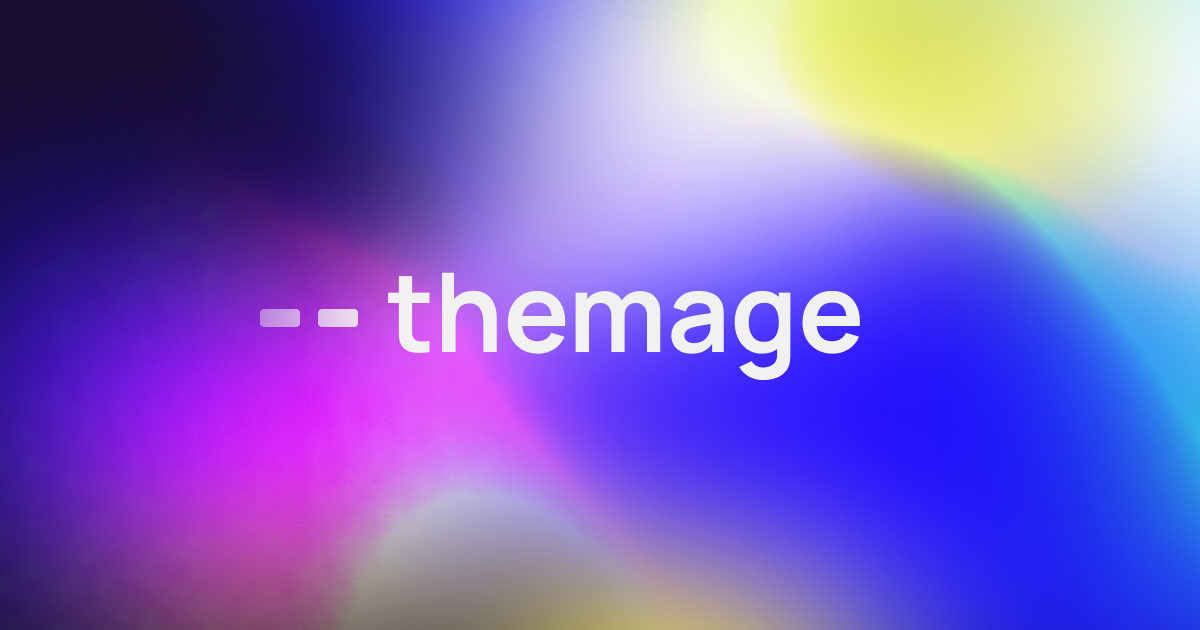
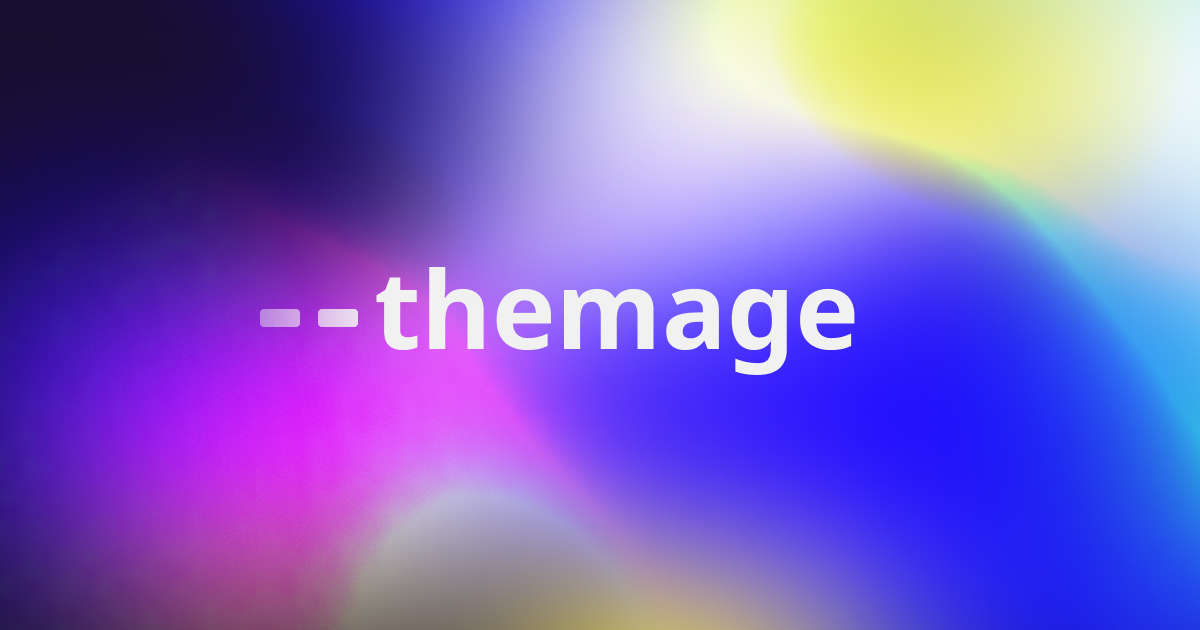
feat: Init app's layouts, style error page

Changed region(s): [[0.3083, 0.4222, 0.74, 0.6032]]

diff --git a/components/AppLogo.vue b/components/AppLogo.vue
@@ -1,0 +1,30 @@
+<template>
+  <svg
+    class="tw-w-auto tw-fill-1"
+    viewBox="0 0 600 140"
+    xmlns="http://www.w3.org/2000/svg"
+  >
+    <path d="M145.2 105.16C139.52 105.16 135.16 103.6 132.12 100.48C129.16 97.36 127.68 92.88 127.68 87.04V58.6H117L120.36 45.88H127.92V33.76L143.28 26.68V45.88H158.88L155.76 58.6H143.52V87.4C143.52 89.24 143.92 90.56 144.72 91.36C145.52 92.16 146.76 92.56 148.44 92.56C150.44 92.56 152.24 92.16 153.84 91.36L157.56 102.76C156.2 103.4 154.32 103.96 151.92 104.44C149.6 104.92 147.36 105.16 145.2 105.16Z" fill="#F1F1F1" />
+    <path d="M209.81 105.28C208.45 102.88 207.45 100.4 206.81 97.84C206.25 95.2 205.97 92.24 205.97 88.96V69.64C205.97 61.56 202.61 57.52 195.89 57.52C191.89 57.52 188.65 59.08 186.17 62.2C183.77 65.32 182.57 69.28 182.57 74.08V104.08H166.73V16H182.57V52.24C184.89 49.92 187.53 48.08 190.49 46.72C193.45 45.36 196.61 44.68 199.97 44.68C214.53 44.68 221.81 53 221.81 69.64V88.6C221.81 93 222.61 96.8 224.21 100L209.81 105.28Z" fill="#F1F1F1" />
+    <path d="M263.655 105.28C254.055 105.28 246.455 102.6 240.855 97.24C235.335 91.88 232.575 84.6 232.575 75.4C232.575 69.4 233.695 64.08 235.935 59.44C238.175 54.8 241.495 51.2 245.895 48.64C250.295 46 255.615 44.68 261.855 44.68C267.935 44.68 273.215 45.96 277.695 48.52C282.175 51 285.575 54.44 287.895 58.84C290.215 63.16 291.375 68 291.375 73.36C291.375 76 290.495 78.04 288.735 79.48C287.055 80.84 284.695 81.52 281.655 81.52H248.295C248.295 84.8 249.695 87.44 252.495 89.44C255.375 91.44 259.095 92.44 263.655 92.44C267.415 92.44 270.575 91.92 273.135 90.88C275.775 89.76 278.095 88.2 280.095 86.2L288.015 94.6C285.375 97.96 281.975 100.6 277.815 102.52C273.655 104.36 268.935 105.28 263.655 105.28ZM275.655 69.16C275.655 65.64 274.335 62.8 271.695 60.64C269.135 58.4 265.855 57.28 261.855 57.28C258.015 57.28 254.775 58.4 252.135 60.64C249.575 62.8 248.295 65.64 248.295 69.16H275.655Z" />
+    <path d="M373.043 105.28C371.683 102.88 370.683 100.4 370.043 97.84C369.483 95.2 369.203 92.24 369.203 88.96V69.4C369.203 65.32 368.523 62.32 367.163 60.4C365.803 58.48 363.763 57.52 361.043 57.52C354.723 57.52 351.563 61.48 351.563 69.4V104.08H335.963V69.28C335.963 65.04 335.323 62.04 334.043 60.28C332.843 58.44 330.883 57.52 328.163 57.52C324.723 57.52 322.203 58.76 320.603 61.24C319.003 63.64 318.203 67.28 318.203 72.16V104.08H302.363V62.2C302.363 59.8 302.163 57.72 301.763 55.96C301.443 54.2 300.763 52.24 299.723 50.08L312.923 44.68C313.643 45.96 314.283 47.48 314.843 49.24C315.483 51 315.843 52.52 315.923 53.8C317.603 50.84 319.843 48.6 322.643 47.08C325.443 45.48 328.443 44.68 331.643 44.68C337.963 44.68 342.643 47.64 345.683 53.56C348.243 50.44 351.003 48.2 353.963 46.84C356.923 45.4 360.443 44.68 364.523 44.68C371.083 44.68 376.123 46.6 379.643 50.44C383.243 54.28 385.043 59.32 385.043 65.56V88.6C385.043 93 385.843 96.8 387.443 100L373.043 105.28Z" />
+    <path d="M421.737 105.28C416.777 105.28 412.337 104.12 408.417 101.8C404.497 99.48 401.417 96.12 399.177 91.72C396.937 87.32 395.817 82.08 395.817 76C395.817 69.52 396.937 63.92 399.177 59.2C401.497 54.48 404.697 50.88 408.777 48.4C412.937 45.92 417.777 44.68 423.297 44.68C429.777 44.68 435.177 47.12 439.497 52V45.88H454.737V87.76C454.737 90.56 454.977 92.88 455.457 94.72C455.937 96.56 456.697 98.4 457.737 100.24L444.897 105.28C442.497 102.64 441.137 99.64 440.817 96.28H440.577C438.337 99.16 435.577 101.4 432.297 103C429.097 104.52 425.577 105.28 421.737 105.28ZM424.977 92.68C429.617 92.68 433.137 91.2 435.537 88.24C437.937 85.2 439.137 81.16 439.137 76.12V73.96C439.137 69.32 437.937 65.4 435.537 62.2C433.217 58.92 429.857 57.28 425.457 57.28C420.977 57.28 417.537 58.88 415.137 62.08C412.817 65.28 411.657 69.92 411.657 76C411.657 81.44 412.777 85.6 415.017 88.48C417.337 91.28 420.657 92.68 424.977 92.68Z" />
+    <path d="M493.49 130.24C486.29 130.24 479.25 128.48 472.37 124.96L477.05 113.56C481.93 116.12 487.41 117.4 493.49 117.4C499.49 117.4 503.69 115.92 506.09 112.96C508.49 110 509.69 105.8 509.69 100.36V97.12C507.69 99.28 505.29 101 502.49 102.28C499.69 103.48 496.61 104.08 493.25 104.08C485.09 104.08 478.53 101.52 473.57 96.4C468.61 91.2 466.13 83.84 466.13 74.32C466.13 68 467.25 62.6 469.49 58.12C471.73 53.64 474.81 50.24 478.73 47.92C482.65 45.6 487.17 44.44 492.29 44.44C499.97 44.44 506.41 47.44 511.61 53.44C512.01 49.92 513.37 46.88 515.69 44.32L528.53 49.36C527.49 51.2 526.73 53.04 526.25 54.88C525.77 56.72 525.53 59.08 525.53 61.96V98.92C525.53 109.16 522.77 116.92 517.25 122.2C511.81 127.56 503.89 130.24 493.49 130.24ZM496.01 91.48C500.49 91.48 503.93 89.88 506.33 86.68C508.73 83.4 509.93 79.44 509.93 74.8V73.6C509.93 68.56 508.69 64.56 506.21 61.6C503.81 58.56 500.25 57.04 495.53 57.04C491.13 57.04 487.77 58.52 485.45 61.48C483.13 64.36 481.97 68.64 481.97 74.32C481.97 80.24 483.13 84.6 485.45 87.4C487.85 90.12 491.37 91.48 496.01 91.48Z" />
+    <path d="M567.991 105.28C558.391 105.28 550.791 102.6 545.191 97.24C539.671 91.88 536.911 84.6 536.911 75.4C536.911 69.4 538.031 64.08 540.271 59.44C542.511 54.8 545.831 51.2 550.231 48.64C554.631 46 559.951 44.68 566.191 44.68C572.271 44.68 577.551 45.96 582.031 48.52C586.511 51 589.911 54.44 592.231 58.84C594.551 63.16 595.711 68 595.711 73.36C595.711 76 594.831 78.04 593.071 79.48C591.391 80.84 589.031 81.52 585.991 81.52H552.631C552.631 84.8 554.031 87.44 556.831 89.44C559.711 91.44 563.431 92.44 567.991 92.44C571.751 92.44 574.911 91.92 577.471 90.88C580.111 89.76 582.431 88.2 584.431 86.2L592.351 94.6C589.711 97.96 586.311 100.6 582.151 102.52C577.991 104.36 573.271 105.28 567.991 105.28ZM579.991 69.16C579.991 65.64 578.671 62.8 576.031 60.64C573.471 58.4 570.191 57.28 566.191 57.28C562.351 57.28 559.111 58.4 556.471 60.64C553.911 62.8 552.631 65.64 552.631 69.16H579.991Z" />
+    <rect
+      opacity="0.7"
+      y="64"
+      width="40"
+      height="18"
+      rx="4"
+    />
+    <rect
+      opacity="0.9"
+      x="58"
+      y="64"
+      width="40"
+      height="18"
+      rx="4"
+    />
+  </svg>
+</template>

diff --git a/components/AppFooter.vue b/components/AppFooter.vue
@@ -1,0 +1,32 @@
+<template>
+  <footer class="tw-opacity-muted tw-flex tw-flex-col xs:tw-flex-row tw-gap-2 tw-items-center">
+    <nav class="tw-inline-flex tw-gap-2">
+      <a
+        class="tw-text-lg tw-inline-flex"
+        :href="`https://twitter.com/${APP_TWITTER_HANDLE}`"
+        target="_blank"
+        rel="noreferrer noopener"
+      >
+        <icon name="twitter" />
+      </a>
+      <a
+        class="tw-text-lg tw-inline-flex"
+        :href="`https://github.com/${APP_GITHUB_USERNAME}`"
+        target="_blank"
+        rel="noreferrer noopener"
+      >
+        <icon name="github" />
+      </a>
+    </nav>
+    <span class="tw-text-3 tw-text-xs tw-inline-block">
+      © {{ yearsFrom }}. Made by
+      <a href="https://github.com/pyncz" target="_blank" rel="noreferrer noopener">
+        pyncz
+      </a>
+    </span>
+  </footer>
+</template>
+
+<script lang="ts" setup>
+const yearsFrom = getYearsFrom(2023)
+</script>

diff --git a/error.vue b/error.vue
@@ -1,0 +1,38 @@
+<template>
+  <app-layout>
+    <message-layout>
+      <h1>
+        {{ title }}
+      </h1>
+      <div class="tw-space-y-1">
+        <p class="tw-text-2">
+          {{ message }}
+        </p>
+        <div>
+          <a role="button" @click="clearError({ redirect: '/' })">
+            {{ $t('goHome') }}
+          </a>
+        </div>
+      </div>
+    </message-layout>
+  </app-layout>
+</template>
+
+<script setup lang="ts">
+const props = defineProps({
+  error: Object,
+})
+
+const { t } = useI18n()
+const error = toRef(props, 'error')
+
+const title = computed(() => error.value?.statusCode ?? t('errors.default'))
+const message = computed(() => error.value?.statusCode === 404
+  ? t('errors.notFound')
+  : t('errors.unexpected'),
+)
+
+useHead({
+  title: `var(--themage-error${error?.value?.statusCode ? `-${error.value.statusCode}` : ''})`,
+})
+</script>

diff --git a/utils/getYearsFrom.ts b/utils/getYearsFrom.ts
@@ -1,0 +1,14 @@
+/**
+ * Makes string like `2022-2023`, from provided year till the current one
+ * or just year if they are the same.
+ *
+ * @param start Year to start from (current year as default)
+ *
+ * @returns Years string
+ */
+export const getYearsFrom = (startYear?: number): string => {
+  const currentYear = new Date().getFullYear()
+  return startYear
+    ? `${startYear}${currentYear > startYear ? `-${currentYear}` : ''}`
+    : currentYear.toString()
+}

diff --git a/components/_layouts/MessageLayout.vue b/components/_layouts/MessageLayout.vue
@@ -1,0 +1,9 @@
+<template>
+  <app-header />
+  <main class="tw-container tw-py-8 tw-flex-1 tw-text-center tw-flex-center">
+    <div class="tw-max-w-sm tw-pb-8">
+      <slot />
+    </div>
+  </main>
+  <app-footer />
+</template>

diff --git a/components/AppHeader.vue b/components/AppHeader.vue
@@ -1,0 +1,9 @@
+<template>
+  <nav>
+    <nuxt-link :to="localePath({ name: 'index' })"><app-logo class="tw-h-8" /></nuxt-link>
+  </nav>
+</template>
+
+<script setup lang="ts">
+const localePath = useLocalePath()
+</script>

diff --git a/nuxt.config.ts b/nuxt.config.ts
@@ -38,6 +38,11 @@ export default defineNuxtConfig({
     '@nuxtjs/fontaine',
   ],
 
+  components: [
+    '~/components',
+    '~/components/_layouts',
+  ],
+
   i18n: {
     langDir: 'locales',
     locales: [

diff --git a/components/_layouts/AppLayout.vue b/components/_layouts/AppLayout.vue
@@ -1,0 +1,5 @@
+<template>
+  <div class="tw-min-h-screen tw-px-4 sm:tw-px-6 md:tw-px-8 tw-py-8 tw-flex tw-flex-col">
+    <slot />
+  </div>
+</template>

diff --git a/utils/consts/meta.ts b/utils/consts/meta.ts
@@ -1,0 +1,3 @@
+export const APP_TWITTER_HANDLE: string | undefined = 'iampyncz'
+
+export const APP_GITHUB_USERNAME: string | undefined = 'pyncz'

diff --git a/utils/index.ts b/utils/index.ts
@@ -1,0 +1,5 @@
+export * from './consts'
+
+export * from './isClientSide'
+export * from './getYearsFrom'
+export * from './getBaseUrl'

diff --git a/utils/consts/index.ts b/utils/consts/index.ts
@@ -1,0 +1,1 @@
+export * from './meta'
